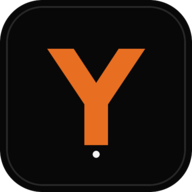
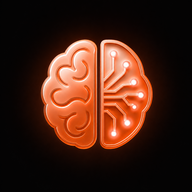
Aplicar ícone oficial da marca ao PWA
Substitui o ícone provisório pelo cérebro tecnológico da YESOD, atualiza todas as dimensões do PWA e define o nome de instalação como YESOD HUB.

diff --git a/public/sw.js b/public/sw.js
@@ -1,4 +1,4 @@
-const CACHE_NAME = "yesod-hub-shell-v1";
+const CACHE_NAME = "yesod-hub-shell-v2";
 const CORE_ASSETS = [
   "/offline.html",
   "/manifest.webmanifest",
